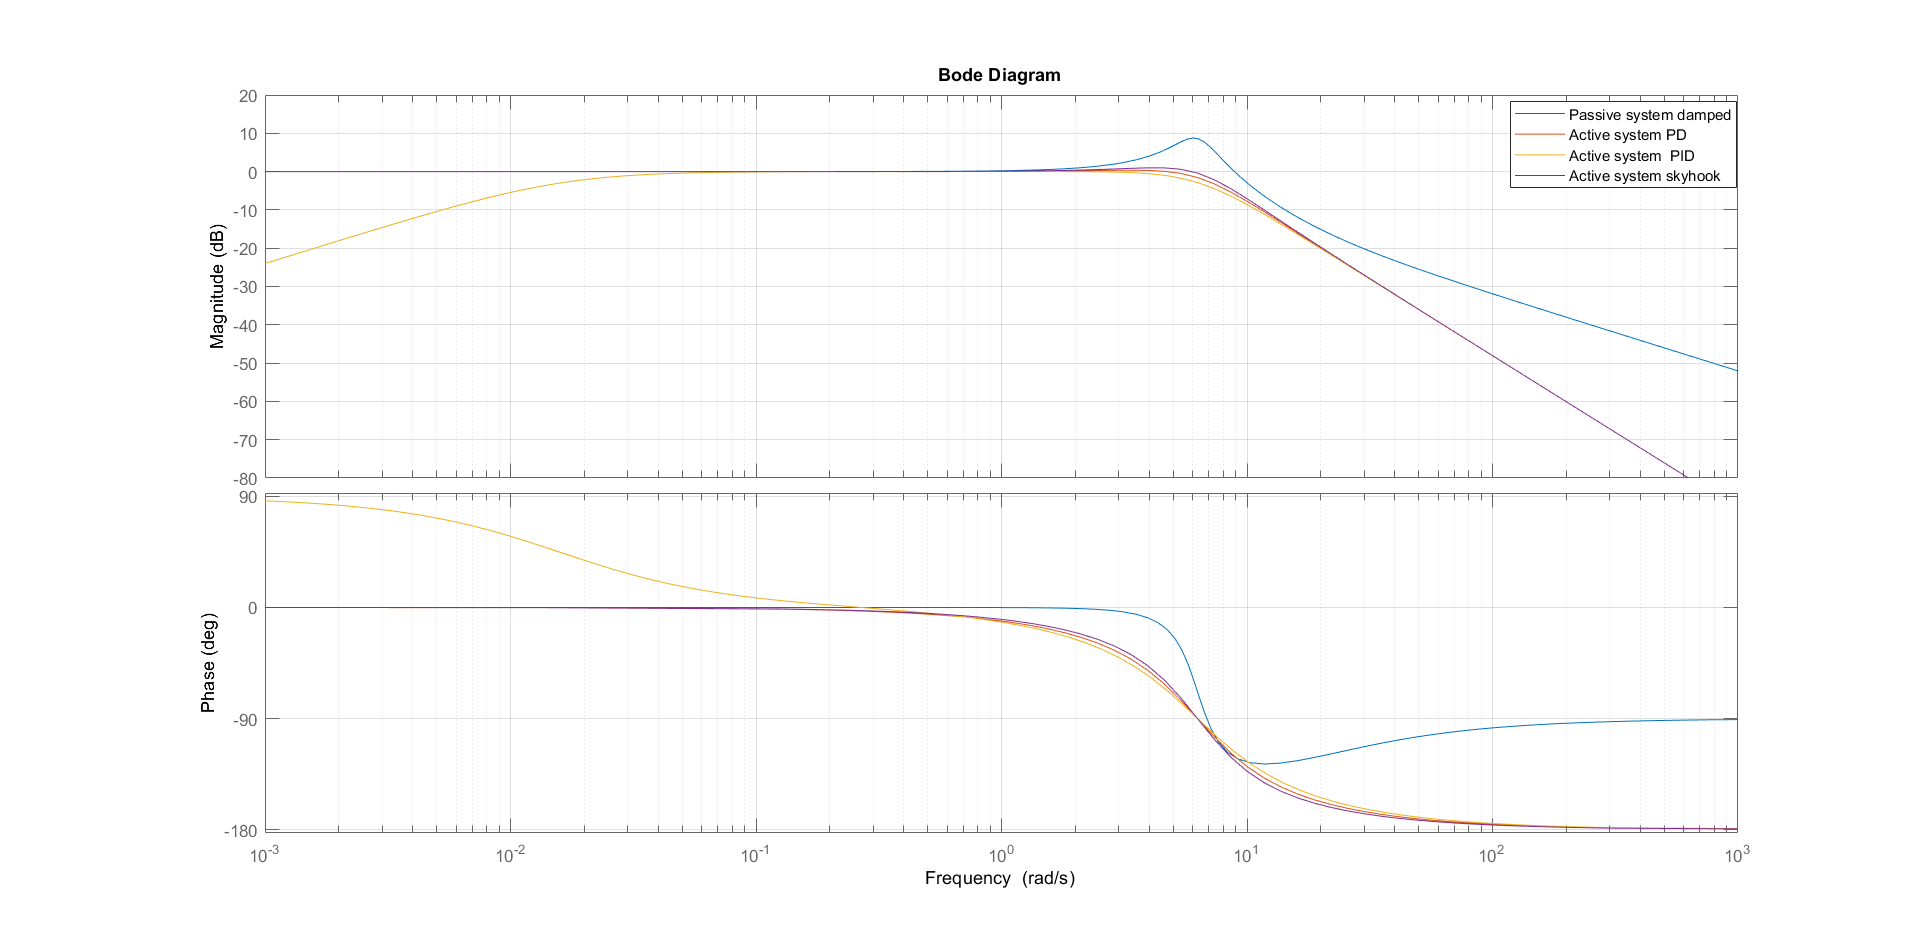
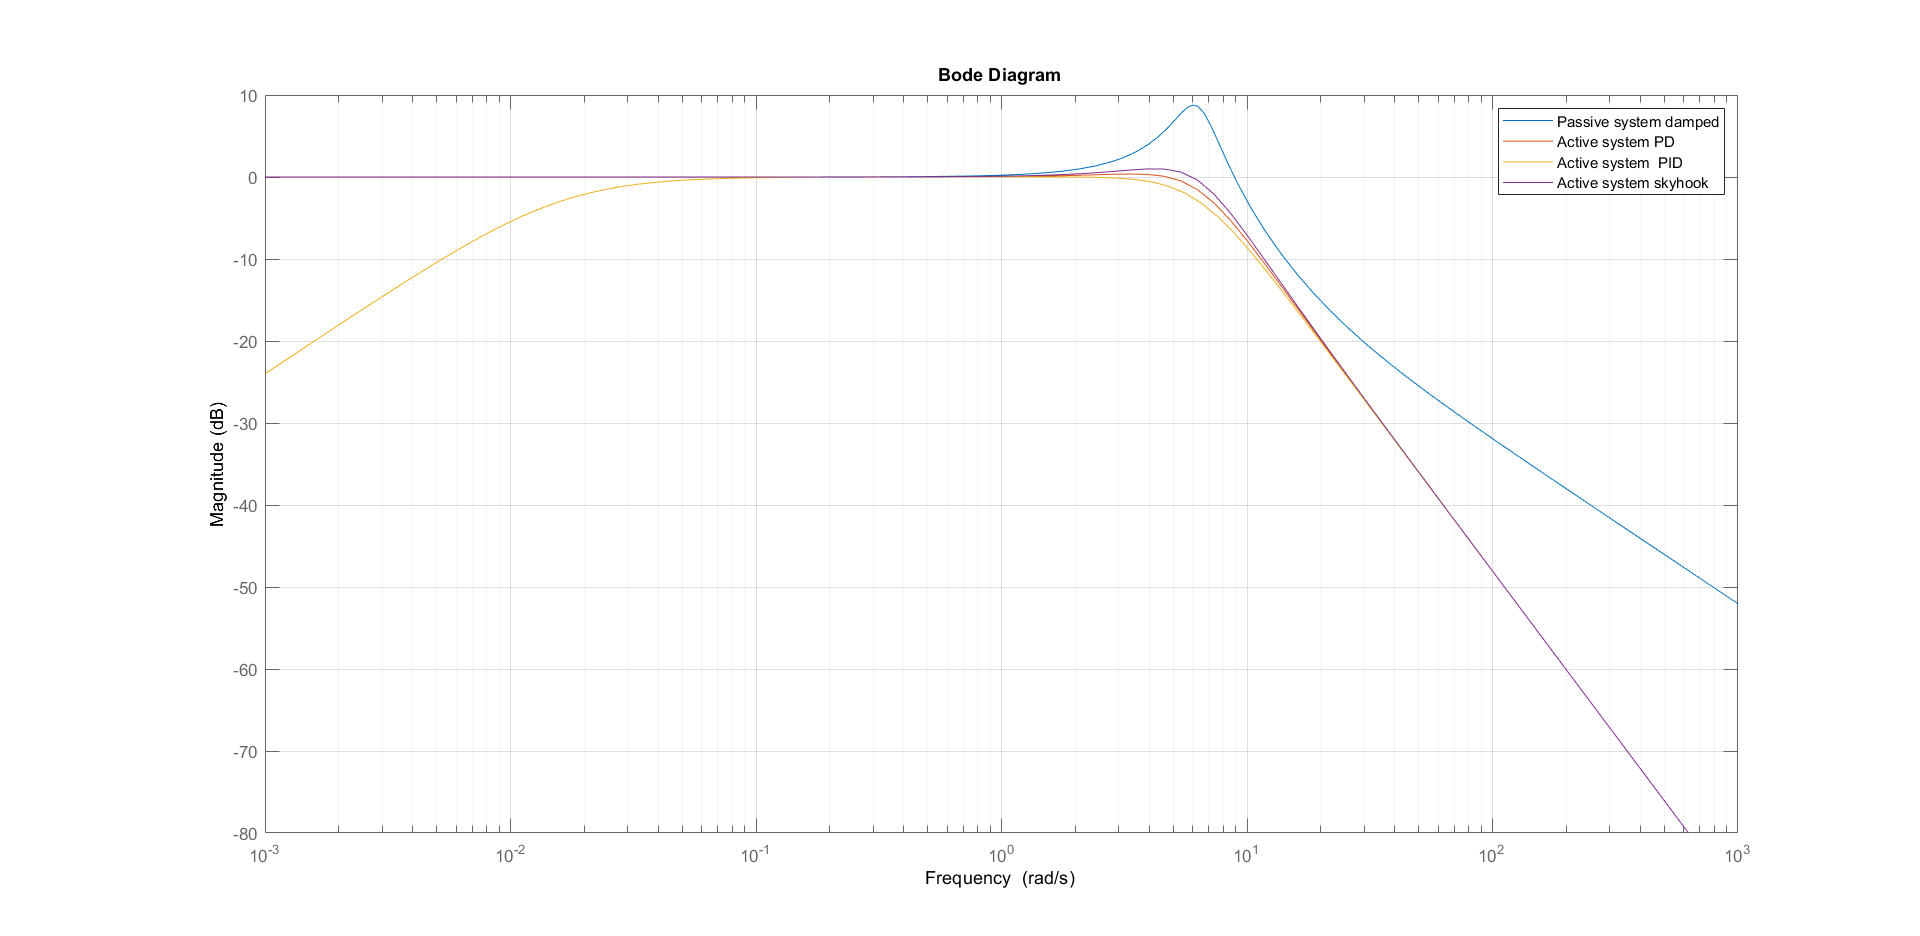
updated bode magnitude plotting

diff --git a/Lab 3/Submission/Lab 3/lab3_1DOF.m b/Lab 3/Submission/Lab 3/lab3_1DOF.m
@@ -285,11 +285,12 @@ legend('Input','Output damped','Output PD','Output active PID', 'Output active s
 
 %%Task 5.2
 %%Bode plot
-bode(tf_damped);
+figure,
+bodemag(tf_damped);
 hold on
-bode(tf_pd_tuned);
-bode(tf_pid);
-bode(tf_skyhook);
+bodemag(tf_pd_tuned);
+bodemag(tf_pid);
+bodemag(tf_skyhook);
 grid on
 legend('Passive system damped','Active system PD','Active system  PID', 'Active system skyhook')
 

diff --git a/Lab 3/Submission/Lab 3/lab3_vehicle_H_inf_ctrl.m b/Lab 3/Submission/Lab 3/lab3_vehicle_H_inf_ctrl.m
@@ -71,6 +71,13 @@ kchi=4.1404e4;%input('Enter the gain for Wchi = ');
 Wb=(kb*s1b*s2b)/((s-s1b)*(s-s2b));
 Wchi=(kchi*s1chi*s2chi)/((s-s1chi)*(s-s2chi));
 
+figure,
+bodemag(Wb)
+hold on
+bodemag(Wchi)
+bodemag(Wa1)
+legend('W_b','W_\chi','W_a1');
+grid on
 
 %%Analysis Weighing function
 % kb_vect = [100;1000;1e4;1e5];
